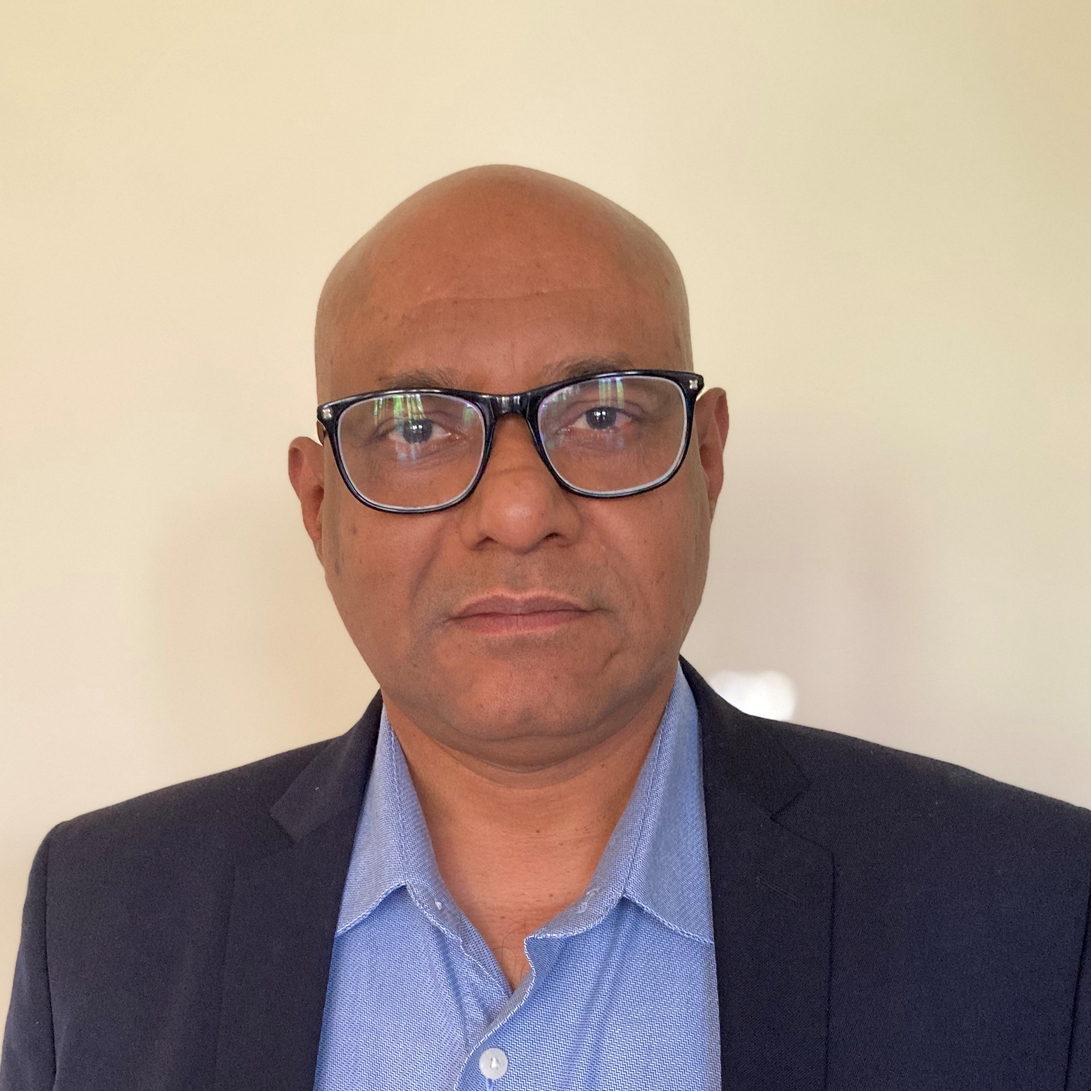
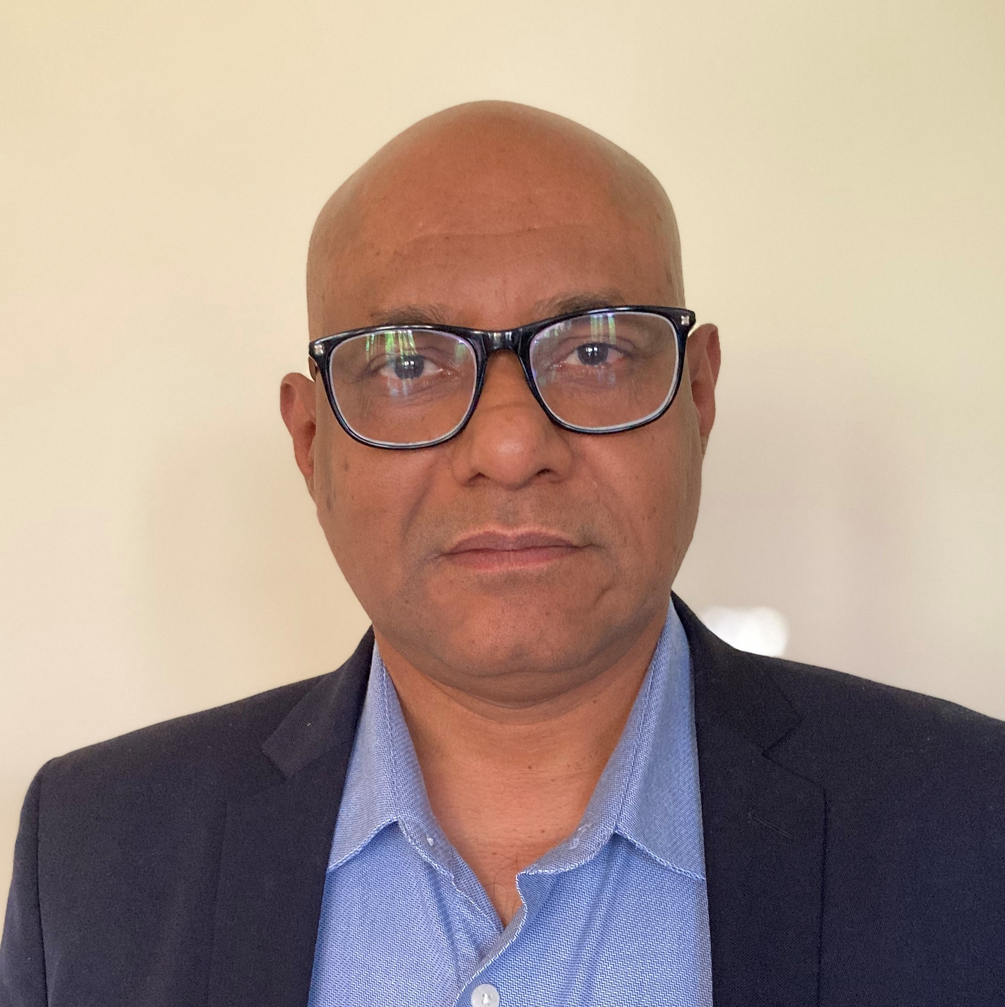
new photo added

diff --git a/src/data/team.data.js b/src/data/team.data.js
@@ -3,6 +3,7 @@ import balu from "../images/team/balu.jpg";
 import hannah from "../images/team/hannah.jpg";
 import avatar from "../images/team/avatar.png";
 import jeba from "../images/team/jeba.png";
+import rajesh from "../images/team/rajesh.png";
 import thomas from "../images/team/thomas.jpeg";
 import devkumar from "../images/team/devkumar.png";
 import sathya from "../images/team/sathya.jpg";
@@ -12,6 +13,7 @@ import amit from "../images/team/amit.jpg";
 import neenu from "../images/team/neenu.jpg";
 import manu from "../images/team/manu.jpg";
 import arvind from "../images/team/arvind.jpg";
+import justin from "../images/team/justin.jpg";
 
 export const mainTeam = {
     title: "Lead Team",
@@ -68,7 +70,7 @@ export const clinicalTeam = {
                     name: "Dr Rajesh I",
                     about: "",
                     department: "Radiation Oncology",
-                    image: avatar,
+                    image: rajesh,
                     designation: 'Professor',
                 },
                 {
@@ -103,7 +105,7 @@ export const clinicalTeam = {
                     name: "Dr Justin Benjamin",
                     about: "",
                     department: "Nuclear Medicine",
-                    image: avatar,
+                    image: justin,
                     designation: 'Assistant Professor',
                 },
 

diff --git a/src/contents/team.jsx b/src/contents/team.jsx
@@ -7,7 +7,7 @@ import { Typography, Grid, Container } from '@mui/material';
 export default function team() {
   return (
     <div id="team">
-      <Section title="Who we are">
+      <Section title="Who We Are">
         <Container key='main'>
           <Typography variant='h4' align='center' color='textSecondary' sx={{
             fontWeight: 'bold', my: '2.5rem'
